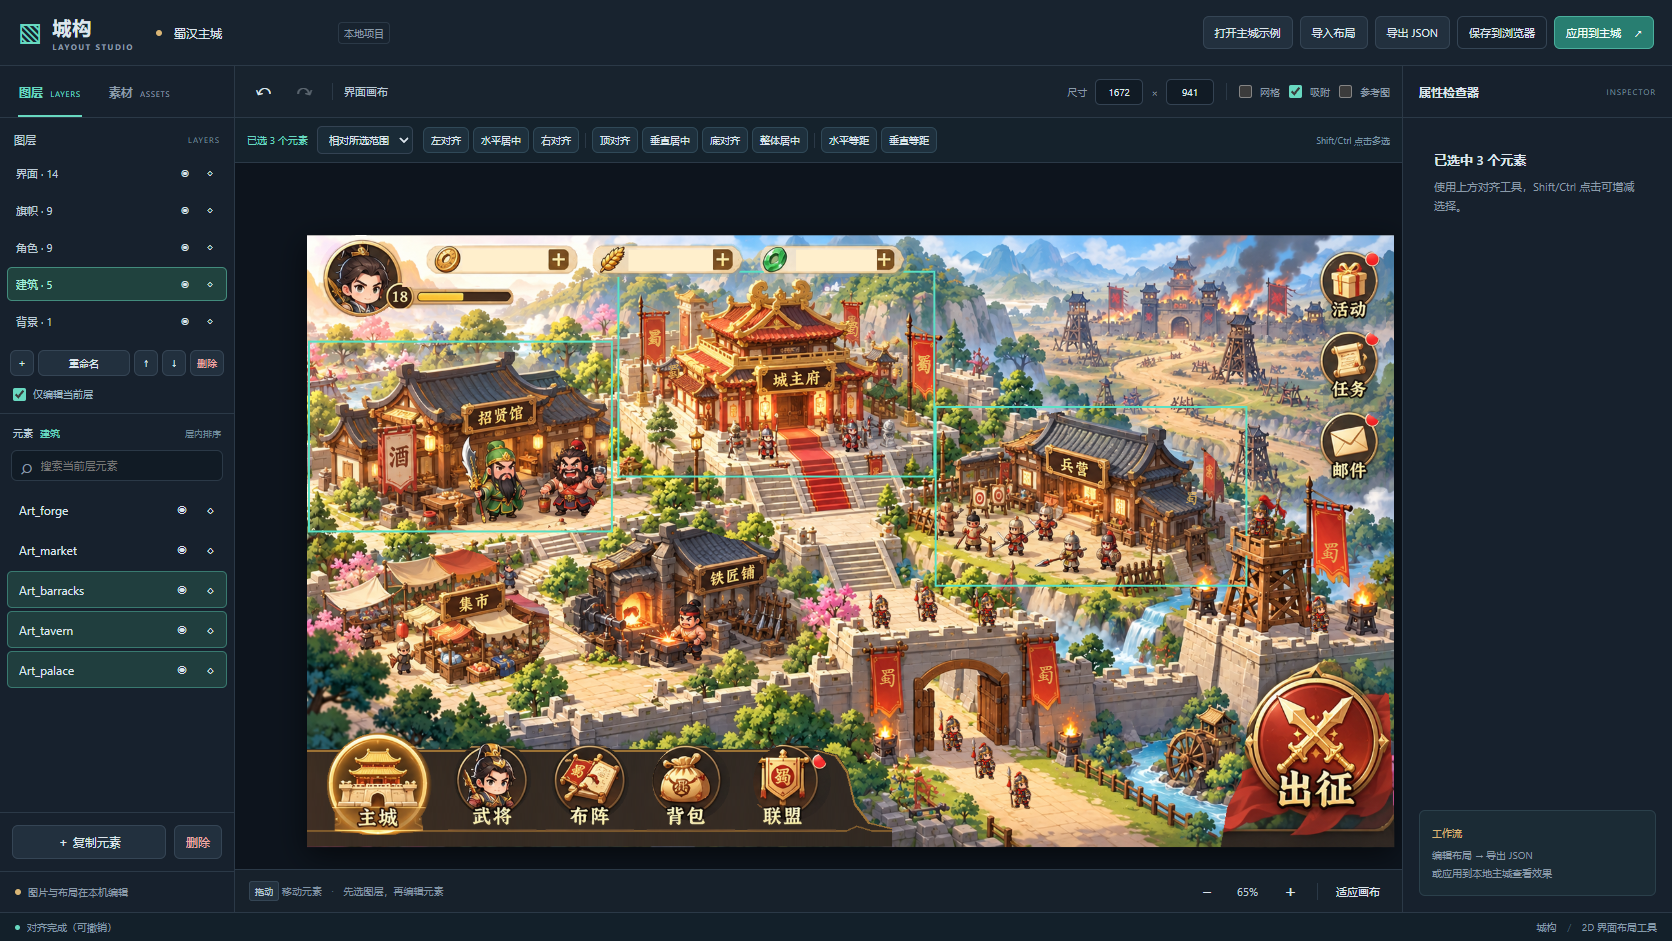
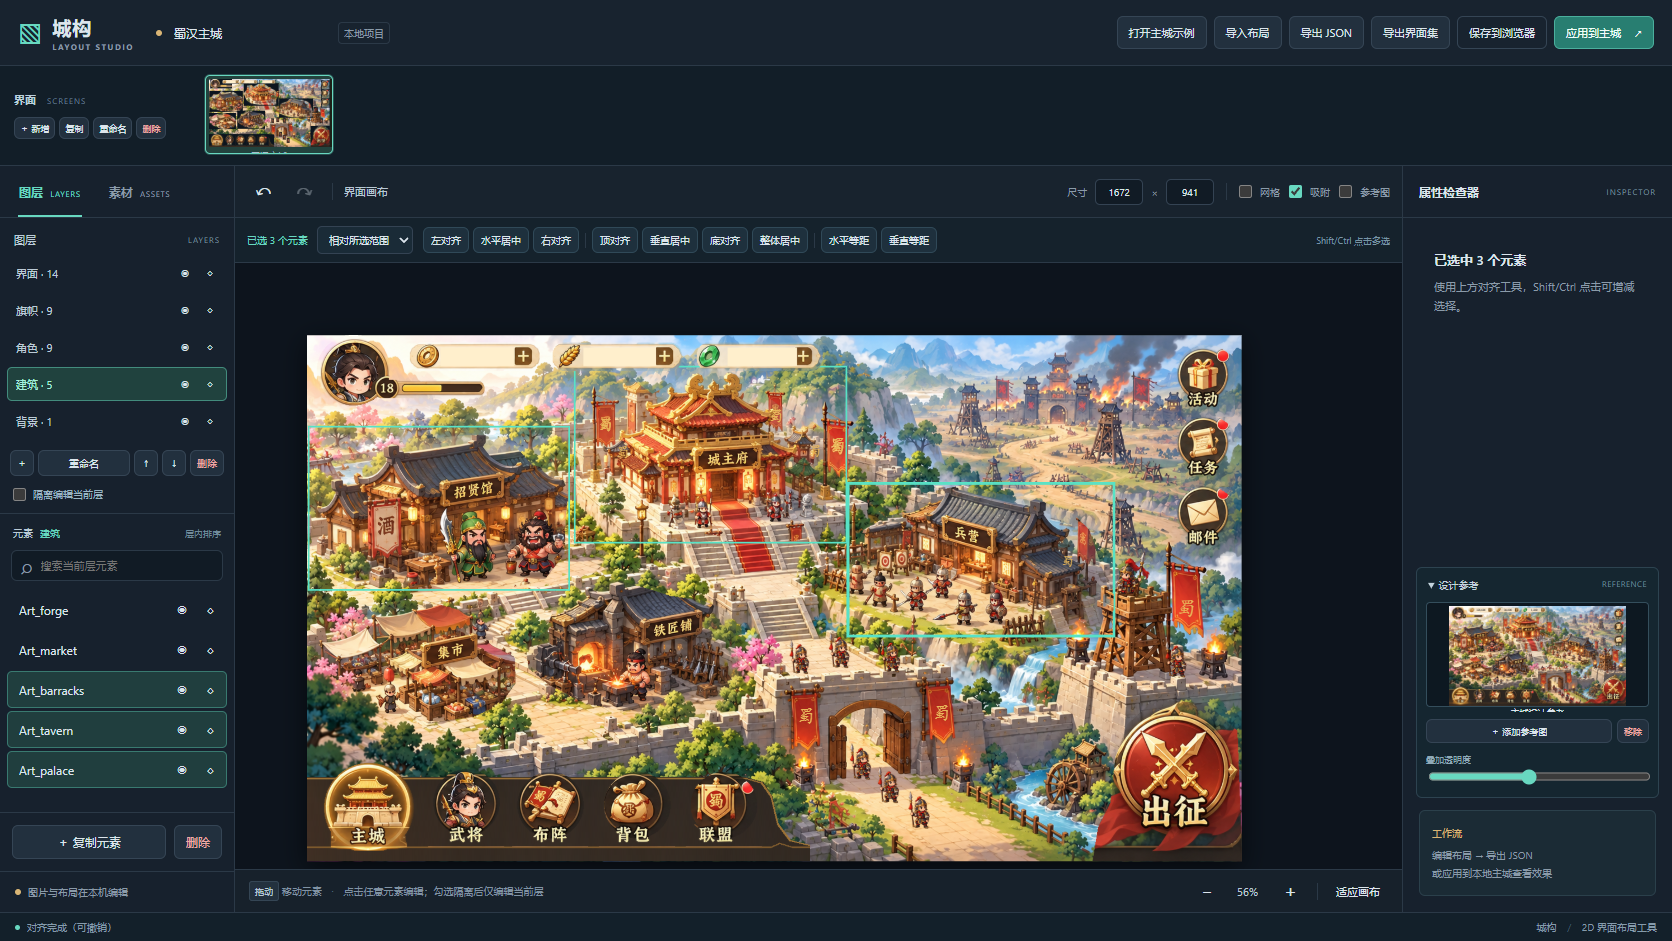
Fix editing hit targets and visible grid; add screen workspace and reference previews

diff --git a/dist/index.html b/dist/index.html
@@ -8,6 +8,7 @@
   <div class="project-control"><span class="project-dot"></span><input id="project-name" aria-label="项目名称" value="未命名界面"><span class="local-tag">本地项目</span></div>
   <div class="toolbar-actions"><button id="load-demo">打开主城示例</button><button id="import-json">导入布局</button><button id="export-json">导出 JSON</button><button id="save-layout" class="button-muted">保存到浏览器</button><button id="apply-layout" class="button-primary">应用到主城 <span>↗</span></button></div>
 </header>
+<section class="screen-strip" aria-label="界面切换"><div class="screen-strip-tools"><span class="screen-strip-title">界面 <small>SCREENS</small></span><div><button id="add-screen" title="新增空白界面">＋ 新增</button><button id="duplicate-screen" title="复制当前界面">复制</button><button id="rename-screen" title="重命名当前界面">重命名</button><button id="delete-screen" class="danger-text" title="删除当前界面">删除</button></div></div><div id="screen-list" class="screen-list" aria-label="所有界面预览"></div></section>
 <div class="workbench">
 <aside class="left-panel panel">
   <div class="panel-tabs"><button id="tab-hierarchy" class="tab active" data-panel="hierarchy">图层 <span>LAYERS</span></button><button id="tab-assets" class="tab" data-panel="assets">素材 <span>ASSETS</span></button></div>
@@ -15,7 +16,7 @@
     <div class="layer-heading"><span>图层</span><span class="small-label">LAYERS</span></div>
     <div id="layer-list" class="layer-list" aria-label="图层列表"></div>
     <div class="layer-actions"><button id="add-layer" title="新增图层">＋</button><button id="rename-layer" title="重命名图层">重命名</button><button id="layer-up" title="图层上移" aria-label="图层上移">↑</button><button id="layer-down" title="图层下移" aria-label="图层下移">↓</button><button id="delete-layer" class="danger-text" title="删除图层">删除</button></div>
-    <label class="layer-edit-option"><input id="layer-edit-mode" type="checkbox" checked>仅编辑当前层</label>
+    <label class="layer-edit-option"><input id="layer-edit-mode" type="checkbox" title="开启后只允许在画布中编辑当前层，关闭后可点击任意层元素">隔离编辑当前层</label>
     <div class="element-heading"><span>元素 <strong id="active-layer-name">未选择图层</strong></span><span>层内排序</span></div>
     <div class="search-wrap"><span>⌕</span><input id="filter-nodes" placeholder="搜索当前层元素" aria-label="搜索当前层元素"></div>
     <div id="node-list" class="node-list"></div>
@@ -28,12 +29,13 @@
   <div class="canvas-toolbar"><div class="history-controls"><button id="undo" title="撤销" aria-label="撤销">↶</button><button id="redo" title="重做" aria-label="重做">↷</button><span class="toolbar-divider"></span><span class="canvas-title">界面画布</span></div><div class="canvas-settings"><label>尺寸 <input id="canvas-width" type="number" min="1" value="1672" aria-label="画布宽度"><span>×</span><input id="canvas-height" type="number" min="1" value="941" aria-label="画布高度"></label><span class="toolbar-divider"></span><label class="check-control"><input id="grid-toggle" type="checkbox">网格</label><label class="check-control"><input id="snap-toggle" type="checkbox" checked>吸附</label><label class="check-control"><input id="reference-toggle" type="checkbox">参考图</label></div></div>
   <div class="alignment-toolbar" aria-label="对齐与分布工具栏"><div class="alignment-target"><span id="selection-count">未选中</span><select id="align-target" aria-label="对齐参照"><option value="canvas">相对画布</option><option value="selection">相对所选范围</option></select></div><div class="alignment-buttons"><button id="align-left" title="将所选元素左边缘对齐到参照范围左侧">左对齐</button><button id="align-hcenter" title="将所选元素水平中心对齐">水平居中</button><button id="align-right" title="将所选元素右边缘对齐到参照范围右侧">右对齐</button><span class="toolbar-divider"></span><button id="align-top" title="将所选元素上边缘对齐到参照范围顶部">顶对齐</button><button id="align-vcenter" title="将所选元素垂直中心对齐">垂直居中</button><button id="align-bottom" title="将所选元素下边缘对齐到参照范围底部">底对齐</button><button id="align-center" title="将所选元素同时水平与垂直居中">整体居中</button><span class="toolbar-divider"></span><button id="distribute-h" title="在所选范围中水平等距分布元素">水平等距</button><button id="distribute-v" title="在所选范围中垂直等距分布元素">垂直等距</button></div><span class="multiselect-hint">Shift/Ctrl 点击多选</span></div>
   <div id="stage-wrap" class="stage-wrap"><div id="stage" class="stage" aria-label="可编辑游戏界面画布"></div></div>
-  <div class="canvas-bottom"><span class="canvas-tip"><kbd>拖动</kbd> 移动元素 <span>·</span> 先选图层，再编辑元素</span><div class="zoom-controls"><button id="zoom-out" aria-label="缩小">−</button><span id="zoom-label">100%</span><button id="zoom-in" aria-label="放大">＋</button><span class="toolbar-divider"></span><button id="fit-view">适应画布</button></div></div>
+  <div class="canvas-bottom"><span class="canvas-tip"><kbd>拖动</kbd> 移动元素 <span>·</span> 点击任意元素编辑；勾选隔离后仅编辑当前层</span><div class="zoom-controls"><button id="zoom-out" aria-label="缩小">−</button><span id="zoom-label">100%</span><button id="zoom-in" aria-label="放大">＋</button><span class="toolbar-divider"></span><button id="fit-view">适应画布</button></div></div>
 </main>
-<aside class="right-panel panel"><div class="inspector-heading"><span>属性检查器</span><span class="small-label">INSPECTOR</span></div><div id="inspector-fields" class="inspector-fields"><div class="empty-state"><span class="empty-icon">⌖</span><strong>选择一个元素</strong><p>在画布或左侧列表中选择对象，<br>调整位置、尺寸和显示属性。</p></div></div><div class="inspector-note"><span>工作流</span><p>编辑布局 → 导出 JSON<br>或应用到本地主城查看效果</p></div></aside>
+<aside class="right-panel panel"><div class="inspector-heading"><span>属性检查器</span><span class="small-label">INSPECTOR</span></div><div id="inspector-fields" class="inspector-fields"><div class="empty-state"><span class="empty-icon">⌖</span><strong>选择一个元素</strong><p>在画布或左侧列表中选择对象，<br>调整位置、尺寸和显示属性。</p></div></div><details class="reference-section" open><summary>设计参考 <span>REFERENCE</span></summary><div class="reference-content"><div id="reference-list" class="reference-list"></div><div class="reference-actions"><button id="add-reference">＋ 添加参考图</button><button id="remove-reference" class="danger-text">移除</button></div><label class="reference-opacity-label" for="reference-opacity">叠加透明度</label><input id="reference-opacity" type="range" min="0" max="100" value="45" aria-label="参考图叠加透明度"></div></details><div class="inspector-note"><span>工作流</span><p>编辑布局 → 导出 JSON<br>或应用到本地主城查看效果</p></div></aside>
 </div>
 <footer class="statusbar"><div><span class="status-dot"></span><span id="status" role="status" aria-live="polite">编辑器就绪</span></div><span>城构 <span class="status-separator">/</span> 2D 界面布局工具</span></footer>
 </div>
 <input id="file-json" type="file" accept=".json,application/json" hidden><input id="file-image" type="file" accept="image/*" multiple hidden>
+<input id="reference-file" type="file" accept="image/*" hidden>
 <script type="module" src="app.mjs"></script>
 </body></html>

diff --git a/dist/style.css b/dist/style.css
@@ -3,3 +3,7 @@
 .layer-heading{display:flex;align-items:center;justify-content:space-between;padding:14px 14px 9px;font-size:11px;color:#bdcdd8;flex-shrink:0}.layer-list{max-height:220px;min-height:42px;overflow:auto;padding:0 7px;flex-shrink:1}.layer-row{display:flex;align-items:center;gap:5px;min-height:34px;padding:4px 6px;border:1px solid transparent;border-radius:5px;margin-bottom:3px;color:#bccbd7;cursor:pointer}.layer-row:hover{background:#223442}.layer-row.active,.layer-row.selected{background:#20423e;border-color:#438c7d;color:#a5efdc}.layer-row .layer-name{flex:1;min-width:0;text-align:left;white-space:nowrap;overflow:hidden;text-overflow:ellipsis;font-size:11px;padding:4px 2px;background:transparent;border:0;color:inherit}.layer-eye,.layer-lock{border:0!important;background:transparent!important;padding:3px 4px!important;font-size:10px!important;min-width:20px}.layer-actions{display:flex;gap:4px;padding:9px 10px;flex-shrink:0}.layer-actions button{padding:5px 6px;font-size:10px;min-width:24px}.layer-actions #rename-layer{flex:1}.layer-edit-option{display:flex;align-items:center;gap:7px;padding:2px 13px 12px;color:#9bb5c3;font-size:10px;border-bottom:1px solid var(--line);flex-shrink:0}.element-heading{display:flex;justify-content:space-between;align-items:center;gap:5px;padding:12px 13px 0;color:#bbcbd5;font-size:10px;flex-shrink:0}.element-heading>span:first-child{min-width:0;display:flex;align-items:center;gap:7px}.element-heading>span:last-child{color:#718b9b;white-space:nowrap;font-size:9px}#active-layer-name{font-weight:400;color:var(--teal);max-width:115px;overflow:hidden;text-overflow:ellipsis;white-space:nowrap}#hierarchy-panel .search-wrap{margin:10px 11px;flex-shrink:0}#hierarchy-panel .node-list{min-height:60px}#hierarchy-panel .node-row{min-height:32px;padding:5px 6px}.layer-list:empty:after{content:'尚无图层';display:block;padding:12px 8px;color:var(--muted);font-size:11px}.node-list:empty:after{content:'当前层暂无元素';display:block;padding:14px 8px;color:var(--muted);font-size:11px}
 /* Alignment actions remain visible at desktop widths without covering the canvas. */
 .alignment-toolbar{display:flex;flex-wrap:wrap;align-items:center;gap:7px 10px;padding:8px 12px;min-height:45px;flex-shrink:0;border-bottom:1px solid var(--line);background:#15222c}.alignment-target{display:flex;align-items:center;gap:9px;flex-shrink:0}.alignment-target select{padding:5px 7px;font-size:10px;max-width:132px;background:#1a2b37}#selection-count{font-size:10px;color:var(--teal);min-width:42px;white-space:nowrap}.alignment-buttons{display:flex;flex-wrap:wrap;align-items:center;gap:4px}.alignment-buttons button{padding:5px 7px;font-size:10px;background:#1e303d;border-color:#304958}.alignment-buttons button:hover{background:#2c4b53;border-color:#5c9f96}.alignment-buttons .toolbar-divider{height:15px;margin:0 2px}.multiselect-hint{margin-left:auto;font-size:9px;white-space:nowrap;color:#7894a4}@media(max-width:1350px){.alignment-toolbar{gap:7px;padding:7px 9px}.alignment-buttons{gap:3px;order:3;flex-basis:100%}.alignment-buttons button{padding:5px 6px;font-size:9px}.multiselect-hint{margin-left:auto}}@media(max-width:1000px){.alignment-buttons button{padding:5px;font-size:9px}.alignment-toolbar{padding:6px 8px}.alignment-buttons .toolbar-divider{display:none}}
+/* A project can contain multiple independently editable screens. */
+.screen-strip{height:100px;max-height:100px;flex-shrink:0;display:flex;align-items:stretch;border-bottom:1px solid var(--line);background:#121e28;gap:14px;padding:8px 14px}.screen-strip-tools{width:174px;flex-shrink:0;display:flex;flex-direction:column;justify-content:center;gap:10px}.screen-strip-title{font-weight:600;font-size:11px;color:#bcd0dc}.screen-strip-title small{font-size:8px;font-weight:400;letter-spacing:1px;color:#637e91;margin-left:8px}.screen-strip-tools>div{display:flex;flex-wrap:wrap;gap:4px}.screen-strip-tools button{padding:4px 5px;font-size:9px}.screen-list{min-width:0;flex:1;display:flex;align-items:center;gap:9px;overflow-x:auto;overflow-y:hidden;padding:0 3px 3px}.screen-card{width:128px;min-width:128px;max-width:128px;flex-shrink:0;height:79px;position:relative;border:1px solid #334956;border-radius:5px;background:#182832;padding:3px;overflow:hidden;cursor:pointer;color:#a9becb}.screen-card.active{border-color:var(--teal);background:#23433e;box-shadow:0 0 0 1px #68d8c044}.screen-card img,.screen-card canvas,.screen-card .screen-thumbnail{display:block;width:100%;height:54px;object-fit:contain;background:#0c151e;border-radius:2px;pointer-events:none}.screen-card span,.screen-card .screen-name{display:block;font-size:9px;line-height:16px;overflow:hidden;text-overflow:ellipsis;white-space:nowrap;padding:0 3px}.screen-card:hover{border-color:#77b4b0;background:#213640}.reference-section{flex-shrink:0;margin:0 13px 12px;border:1px solid #2d4350;border-radius:6px;background:#152630;max-height:245px;overflow:auto}.reference-section summary{cursor:pointer;padding:10px 11px;font-size:10px;color:#c4d4dd;list-style-position:inside}.reference-section summary span{float:right;font-size:8px;letter-spacing:.5px;color:#668595}.reference-content{padding:0 9px 10px}.reference-list{display:flex;gap:6px;overflow-x:auto;max-height:110px;padding-bottom:5px}.reference-card{position:relative;min-width:120px;flex:1;border:1px solid #344e5c;border-radius:4px;background:#0d1821;padding:3px;cursor:zoom-in}.reference-card.active{border-color:var(--teal)}.reference-card img{display:block;width:100%;height:100px;object-fit:contain}.reference-card span{font-size:9px;overflow:hidden;text-overflow:ellipsis;white-space:nowrap;display:block}.reference-actions{display:flex;gap:5px;margin-top:7px}.reference-actions button{padding:5px 6px;font-size:9px}.reference-actions #add-reference{flex:1}.reference-opacity-label{display:block;color:#8fa9b7;font-size:9px;margin-top:10px}#reference-opacity{width:100%;height:15px;margin-top:4px;accent-color:var(--teal);padding:0}.right-panel .inspector-fields{min-height:100px}.screen-list:empty:after{content:'暂无界面，点击新增开始';font-size:10px;color:#718b9d;padding:12px}@media(max-width:1350px){.screen-strip{padding:7px 11px;gap:10px}.screen-strip-tools{width:160px}.reference-section{margin-left:10px;margin-right:10px;max-height:215px}.reference-card img{height:80px}.reference-list{max-height:90px}.inspector-note{margin-bottom:10px}.canvas-tip{max-width:58%}}
+
+.screen-card{padding:3px;overflow:hidden}.screen-card>span{display:block;font-size:10px;line-height:16px;white-space:nowrap;overflow:hidden;text-overflow:ellipsis}.reference-lightbox::backdrop{background:#000b}

diff --git a/README.md b/README.md
@@ -52,7 +52,7 @@ npm test
 
 ## 显式图层与当前主城素材
 
-布局新增 layers[] 与 node.layerId，区分图层容器和层内元素。支持图层新增、重命名、删除、排序、显隐和锁定；默认勾选“仅编辑当前层”，便于隔离重叠素材。操作见 [图层说明](docs/LAYERS.md)。
+布局新增 layers[] 与 node.layerId，区分图层容器和层内元素。支持图层新增、重命名、删除、排序、显隐和锁定；按需开启“隔离编辑当前层”，便于隔离重叠素材。操作见 [图层说明](docs/LAYERS.md)。
 
 当前完整默认主城为 5 层、38 个元素：背景 1、建筑 5、角色 9（含前景护栏）、旗帜 9、界面 14。底部 5 个导航按钮已独立，背景板另算 1 个界面元素；旗帜是独立资源而非底板上的移动假象。背景层仍有烘焙远景和城墙，不是全部环境拆层。
 
@@ -60,3 +60,17 @@ npm test
 
 ### 对齐
 选中元素后使用画布上方对齐工具。Shift/Ctrl 点击元素列表或画布可多选；切换“相对画布 / 相对所选范围”。三个以上可等距分布；锁定/隐藏项不参与，操作可撤销。
+
+## 多界面工作区与参考图
+
+顶部缩略图条管理多个独立界面：新增、复制、重命名、删除与切换。每个界面各有布局文档、素材、图层及一张可替换参考图。切换前修改保留在内存，切换后撤销历史重新开始；只有点击“保存到浏览器”才持久化，当前没有自动保存。
+
+- “导出 JSON”导出当前布局与内嵌素材，不含工作区参考图。
+- “导出界面集”导出全部界面、素材与参考图，可在另一台电脑导入继续编辑。
+- 导入支持普通布局 JSON 和 kind=layout-workspace 的界面集。
+- 右侧可上传15MB以内 PNG/JPG/WebP/GIF 参考图，点击缩略图放大；顶部“参考图”开关叠加到画布，透明度0–100%。
+- 网格与画布中心线为不拦截输入的辅助叠加，选中元素的控制手柄保持可操作。
+
+默认不开启隔离编辑：点击任意元素会切换其所在图层。按需勾选“隔离编辑当前层”才限制画布编辑范围。
+
+多界面是编辑器工作区能力；当前 Cocos 桥仍只支持“当前主城布局”的既有元素，不代表游戏已实现这些新界面或自动生成多场景。

diff --git a/docs/LAYERS.md b/docs/LAYERS.md
@@ -16,7 +16,7 @@
 
 ## 常用操作
 
-1. 点击图层名切换当前层。默认“仅编辑当前层”开启，画布拖动只作用于当前层，减少重叠误选。
+1. 点击图层名切换当前层。默认“隔离编辑当前层”关闭，可点击任意元素并自动切换到其图层；开启后画布拖动只作用于当前层，减少重叠误选。
 2. 用眼睛按钮隐藏整层，用锁按钮锁定整层；元素也有各自的显隐/锁定。父节点隐藏或锁定会影响后代。
 3. ＋新增层，重命名修改标签，↑/↓改变图层绘制顺序。元素列表和检查器负责层内元素顺序。
 4. 选元素后在“所属图层”中迁移；其子树一起迁移。parentId 用于局部坐标变换，是另一项关系。
@@ -34,3 +34,13 @@
 对齐参照可选“相对画布”或“相对所选范围”。左/右/顶/底对齐作用于边缘；水平/垂直居中作用于相应中心。“整体居中”同时使用水平与垂直方向。使用前确认参照范围，避免把原本有间距的按钮叠到同一中心。
 
 水平/垂直等距用于多个元素的排布；建议至少选择三个元素，并先检查端点和尺寸。旋转、缩放与父子局部坐标的具体计算以当前数据核心实现为准。对齐后可撤销，并应在主城适配构建中核对视觉和点击热区。
+
+## 多界面与参考图操作
+
+顶部“界面”条可新增、复制、重命名、删除和切换。至少保留一个界面。每界面的图层、元素、素材与参考图独立；切换保留内存编辑结果，但清空撤销历史。请点击“保存到浏览器”持久化完整工作区；没有自动保存。
+
+右侧“设计参考”上传或移除当前界面参考图，支持15MB以内PNG/JPG/WebP/GIF。点击预览弹出大图；顶部参考图开关和右侧0–100透明度滑块用于画布叠加。网格/中心线不拦截输入，控制手柄位于可操作叠加层。
+
+默认隔离编辑关闭，点击任意可编辑元素会自动选择所在图层。需要专注建筑或旗帜时再开启“隔离编辑当前层”。多选时仍需注意锁定及有效父级状态。
+
+“导出JSON”只带当前布局素材；要连同所有界面和参考图迁移，使用“导出界面集”。通用多界面不等于自动创建Cocos场景，写回限制保持不变。

diff --git a/docs/PORTABILITY.md b/docs/PORTABILITY.md
@@ -44,3 +44,13 @@ layers 是非空有序容器数组，每项 id、name、z、visible、locked；n
 旧 version=1 文档若缺 layers，校验补默认层；识别到主城节点时补背景/建筑/角色/旗帜/界面五层。旧 Art_hud-bottom 合并底栏迁移依赖本机 /api/projects/city 获得最新六个素材定义，因此旧文档在独立静态部署前应先本机迁移、导出内嵌图片。
 
 本轮主城默认集合更新为38个元素。通用图层与任意图片继续可独立编辑；Cocos适配器仍只应用支持的既有根级元素，新图层不等于创建任意Cocos场景或Prefab。
+
+## 工作区容器（与单布局分离）
+
+工作区 JSON 顶层 kind=layout-workspace、version=1、activeId、screens。每项 screen 包含 id、document（完整版本1布局）、reference（null或{name,src}）。screen.id用于工作区切换；document.id是布局业务标识，两者不可混淆。每界面保留独立文档与参考图。
+
+IndexedDB 的 documents 对象仓库以 workspace 键保存完整界面集，同时以 current 键保存当前布局兼容旧版读取。启动优先恢复workspace；旧localStorage布局仅作回退。切换保留各界面内存状态，但重置当前撤销/重做历史；未显式保存的修改不保证刷新后存在，没有自动保存。
+
+当前布局导出仅打包该文档assets；界面集导出遍历全部screens并打包assets和reference为data URL，迁移多界面时应选后者。导入根据kind检测工作区，旧单布局继续可用。参考图由PNG/JPG/WebP/GIF上传，15MB以内，每界面一张可替换；参考图透明度与叠加开关是视图控制，不是游戏节点。
+
+缩略图条用于切换与识别界面，不是引擎级场景导出器；Cocos适配仍只处理当前已支持主城根级Sprite集合。其他界面须先实现各自引擎适配才能写回游戏。

diff --git a/docs/ACCEPTANCE.md b/docs/ACCEPTANCE.md
@@ -32,3 +32,9 @@
 
 ## 对齐工具验收
 七种对齐（左/水平居中/右/顶/垂直居中/底/正中）和水平/垂直等距通过几何测试；浏览器实测37度旋转后正中、Shift多选3元素左对齐、一步撤销与重做、等距、锁定跳过通过。原有浏览器回归通过，无控制台错误。截图editor-alignment.png。
+
+## 多界面工作区增量验收
+
+本轮执行者报告工作区浏览器QA通过；此文档更新未独立重跑交互，具体断言以最新QA脚本与结果为准。需覆盖：新增/复制/重命名/删除/切换；切换前修改保留；保存workspace后刷新恢复；当前布局与全部界面集导出区别；参考图上传、放大、移除、透明度与网格不拦输入；默认非隔离自动选层。
+
+工作区保存使用IndexedDB的workspace键，并兼容写入current。没有自动保存，切换会重置撤销历史；应用主城仍需重新编译。docs/editor-workspace.png若展示白色参考图，是QA上传的测试色块，不是默认美术参考或最终还原截图。
